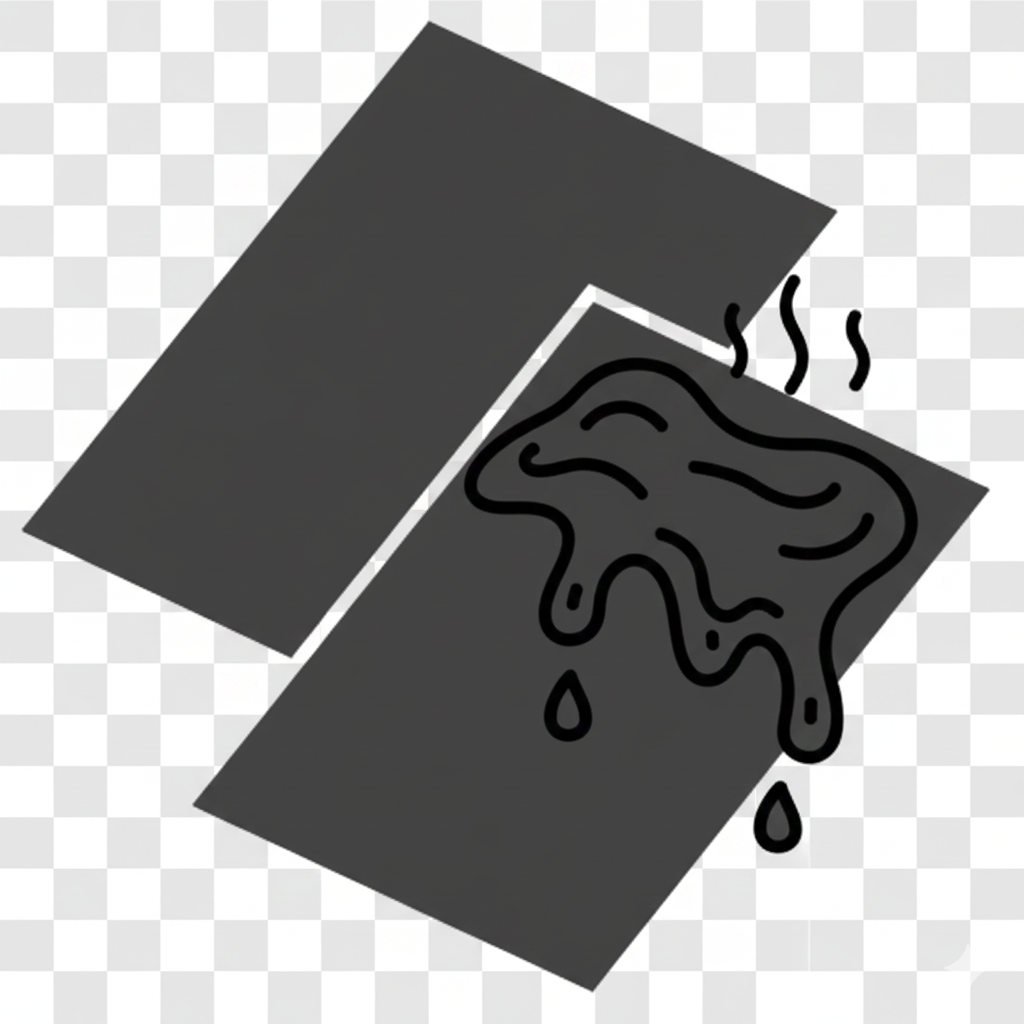
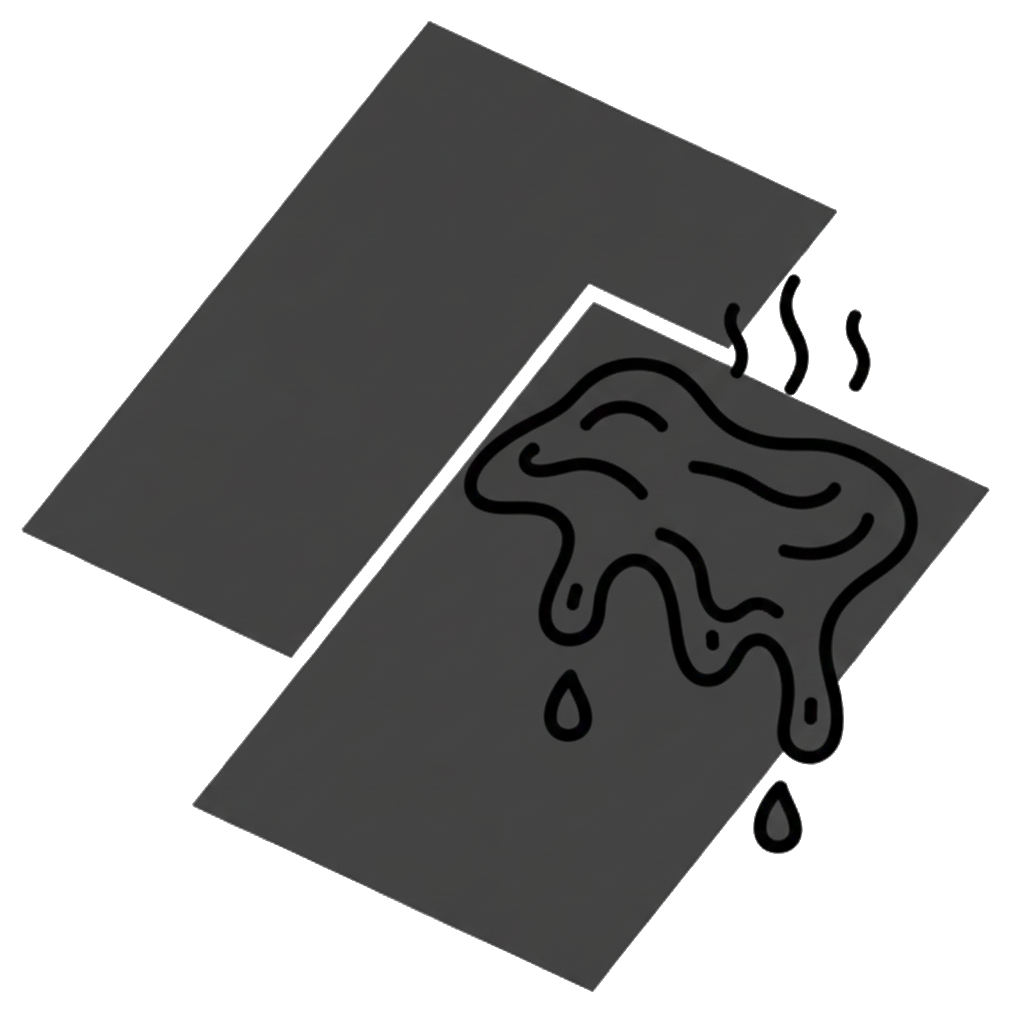
added prepMachines textures alphachannel

diff --git a/Game/src/app/services/game.service.ts b/Game/src/app/services/game.service.ts
@@ -42,7 +42,6 @@ export class GameService {
   private interactableManager!: InteractableManager;
   private conveyorBeltManager!: ConveyorBeltManager;
   private prepMachine!: PrepMachineManager;
-  private lastFrameTimestamp: number = performance.now();
 
   // Input und Assets
   private inputs: Record<string, boolean> = {};
@@ -199,9 +198,6 @@ export class GameService {
     Orders.initializeOrders();
     const loop = () => {
       if (!this.GameRunning) return;
-      const now = performance.now();
-      const deltaMs = now - this.lastFrameTimestamp;
-      this.lastFrameTimestamp = now;
       // Bildschirm löschen
       this.ctx.clearRect(0, 0, this.ctx.canvas.width, this.ctx.canvas.height);
 
@@ -231,7 +227,7 @@ export class GameService {
 
       const workingPrepMachine = this.player.getWorkingPrepMachine();
       this.prepMachine.setWorkingMachine(workingPrepMachine);
-      this.prepMachine.update(deltaMs);
+      this.prepMachine.update(RenderingService.instance().deltaTime);
 
       this.player.render();
       this.player.updateProductInHand();

diff --git a/Game/src/app/models/orders/orders.ts b/Game/src/app/models/orders/orders.ts
@@ -58,10 +58,10 @@ export class Orders {
   public static initializeOrders(): void {
     const initialOrders: Order[] = [
       { ...this.createOrder([{id: 1, quantity: 1}]), status: false },
-      { ...this.createOrder([{id: 2, quantity: 1}, {id: 3, quantity: 1}]), status: false },
+      /*{ ...this.createOrder([{id: 2, quantity: 1}, {id: 3, quantity: 1}]), status: false },
       { ...this.createOrder([{id: 4, quantity: 1}, {id: 5, quantity: 1}]), status: false },
       { ...this.createOrder([{id: 5, quantity: 2}]), status: false },
-      { ...this.createOrder([{id: 6, quantity: 1}]), status: false },
+      { ...this.createOrder([{id: 6, quantity: 1}]), status: false },*/
       { ...this.createOrder([{id: 4, quantity: 1}, {id: 5, quantity: 1}, {id: 6, quantity: 1}]), status: false }
     ];
     this.ordersList$.next(initialOrders);

diff --git a/Game/src/app/models/gamefield/gamefield.ts b/Game/src/app/models/gamefield/gamefield.ts
@@ -112,6 +112,23 @@ export class Gamefield {
                     []
                 ))
         }
+        for(let i = 0; i < Gamefield.cols; i++)
+        {
+            this.environmetObjects.push(new RenderObject(
+                    `wall-${i}`,
+                    RenderType.RECT,
+                    i * Gamefield.fieldsize,
+                    0,
+                    600,
+                    Gamefield.fieldsize,
+                    0.1,
+                    -2280,
+                    "/images/Metal_16-512x512.png",
+                    undefined,
+                    "#686767ff",
+                    ["#686767ff"]
+                ))
+        }
     }
 
     /**

diff --git a/Game/src/app/components/start-screen/start-screen.component.ts b/Game/src/app/components/start-screen/start-screen.component.ts
@@ -371,7 +371,7 @@ export class StartScreenComponent implements OnInit {
     const width = `${newWidth}px`;
     const height = `${newHeight}px`;
 
-    // Hauptcontainer und Canvas-Größe anpassen
+    // Hauptcontainer und Canvas-Größe anpassenU
     style.setProperty('width', width);
     style.setProperty('height', height);
     styleCanvas.setProperty('height', height);
